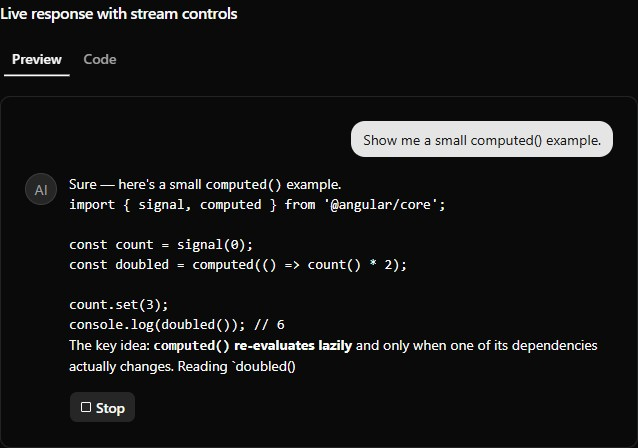
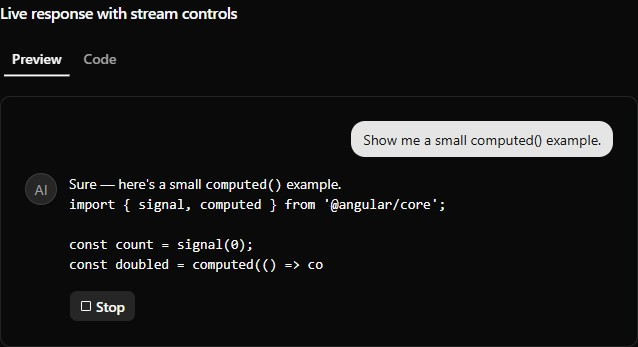
Render markdown fenced code blocks via Shiki with copy button

diff --git a/libs/prompt-kit/markdown/pk-markdown.ts b/libs/prompt-kit/markdown/pk-markdown.ts
@@ -61,21 +61,29 @@ export class PkMarkdown {
 
   private readonly md = computed<Marked>(() => {
     const m = new Marked({ breaks: true, gfm: true });
-    if (this.enableDiagrams()) {
-      m.use({
-        renderer: {
-          code(token: Tokens.Code): string | false {
-            if (token.lang === 'mermaid') {
-              const source = token.text;
-              const id = `pk-mermaid-${djb2(source)}`;
-              const escaped = escapeHtml(source);
-              return `<div class="pk-mermaid-container" data-mermaid-id="${id}" data-mermaid-source="${escaped}">${escaped}</div>`;
-            }
-            return false;
-          },
+    const enableDiagrams = this.enableDiagrams();
+    m.use({
+      renderer: {
+        code(token: Tokens.Code): string | false {
+          // Mermaid takes priority when enabled — emits its own placeholder
+          // that applyDiagrams() turns into an SVG.
+          if (enableDiagrams && token.lang === 'mermaid') {
+            const source = token.text;
+            const id = `pk-mermaid-${djb2(source)}`;
+            const escaped = escapeHtml(source);
+            return `<div class="pk-mermaid-container" data-mermaid-id="${id}" data-mermaid-source="${escaped}">${escaped}</div>`;
+          }
+          // Every other fenced block becomes a placeholder that
+          // applyCodeBlocks() upgrades to a Shiki-highlighted block with a
+          // language tag and a Copy button. The inner pre/code is the
+          // fallback shown until Shiki finishes loading (or if it fails).
+          const lang = (token.lang || 'text').trim() || 'text';
+          const langAttr = escapeHtml(lang);
+          const escaped = escapeHtml(token.text);
+          return `<div class="pk-code-container" data-code-lang="${langAttr}"><pre><code class="language-${langAttr}">${escaped}</code></pre></div>`;
         },
-      });
-    }
+      },
+    });
     return m;
   });
 
@@ -116,7 +124,6 @@ export class PkMarkdown {
       this.mermaidTheme();
 
       if (!isPlatformBrowser(this.platformId)) return;
-      if (!this.enableMath() && !this.enableDiagrams()) return;
 
       if (this.renderTimer) clearTimeout(this.renderTimer);
       this.renderTimer = setTimeout(() => this.runEnhancements(), 300);
@@ -157,11 +164,65 @@ export class PkMarkdown {
   private async runEnhancements(): Promise<void> {
     const el = this.contentEl()?.nativeElement;
     if (!el) return;
+    // Code blocks first — Shiki only loads when the rendered HTML actually
+    // contains fenced blocks, so prose-only content stays light.
+    await this.applyCodeBlocks(el);
     if (this.enableMath()) {
       await this.applyMath(el);
     }
     if (this.enableDiagrams()) {
       await this.applyDiagrams(el);
+    }
+  }
+
+  private async applyCodeBlocks(el: HTMLElement): Promise<void> {
+    const containers = el.querySelectorAll<HTMLElement>('.pk-code-container');
+    if (containers.length === 0) return;
+    try {
+      // Lazy-load: Shiki (~250KB) only enters the bundle when content has fenced blocks
+      const { codeToHtml } = await import('shiki');
+      const isDark =
+        isPlatformBrowser(this.platformId) &&
+        document.documentElement.classList.contains('dark');
+      const theme = isDark ? 'dark-plus' : 'github-light';
+
+      for (const container of Array.from(containers)) {
+        if (container.dataset['enhanced'] === 'true') continue;
+        const codeEl = container.querySelector('code');
+        const code = codeEl?.textContent ?? '';
+        const lang = container.dataset['codeLang'] || 'text';
+
+        const wrapper = buildCodeBlockShell(lang);
+        wrapper.dataset['enhanced'] = 'true';
+
+        const body = wrapper.querySelector<HTMLElement>('.pk-code-body');
+        if (body) {
+          let parsed: Document;
+          try {
+            const html = await codeToHtml(code, { lang, theme });
+            parsed = new DOMParser().parseFromString(html, 'text/html');
+          } catch {
+            // Plain fallback — build a <pre><code>{textContent}</code></pre>.
+            // No innerHTML; textContent escapes for us.
+            const pre = document.createElement('pre');
+            const codeNode = document.createElement('code');
+            codeNode.textContent = code;
+            pre.appendChild(codeNode);
+            body.appendChild(pre);
+            attachCopyHandler(wrapper, code);
+            container.replaceWith(wrapper);
+            continue;
+          }
+          // Shiki returns a single <pre> wrapper. Move it into the body.
+          const pre = parsed.body.querySelector('pre');
+          if (pre) body.appendChild(pre);
+        }
+
+        attachCopyHandler(wrapper, code);
+        container.replaceWith(wrapper);
+      }
+    } catch {
+      // Shiki missing or failed; fenced blocks stay as the escaped <pre><code> fallback
     }
   }
 
@@ -260,6 +321,56 @@ function escapeHtml(s: string): string {
     .replace(/>/g, '&gt;')
     .replace(/"/g, '&quot;')
     .replace(/'/g, '&#39;');
+}
+
+/**
+ * Build the static chrome (header bar + body container) for an enhanced
+ * fenced-code block. Built with DOM APIs only so we never pass user-supplied
+ * text through innerHTML.
+ */
+function buildCodeBlockShell(lang: string): HTMLDivElement {
+  const wrapper = document.createElement('div');
+  wrapper.className =
+    'pk-code-block border-border bg-background my-3 overflow-hidden rounded-md border';
+
+  const header = document.createElement('div');
+  header.className =
+    'border-border bg-muted/40 text-muted-foreground flex items-center justify-between border-b px-3 py-1.5 text-[11px]';
+
+  const langSpan = document.createElement('span');
+  langSpan.className = 'font-mono uppercase tracking-wider';
+  langSpan.textContent = lang;
+  header.appendChild(langSpan);
+
+  const copyBtn = document.createElement('button');
+  copyBtn.type = 'button';
+  copyBtn.className =
+    'pk-code-copy hover:text-foreground inline-flex items-center gap-1 transition-colors';
+  copyBtn.textContent = 'Copy';
+  header.appendChild(copyBtn);
+
+  const body = document.createElement('div');
+  body.className =
+    'pk-code-body w-full overflow-x-auto text-[13px] [&>pre]:!m-0 [&>pre]:!bg-transparent [&>pre]:px-4 [&>pre]:py-3';
+
+  wrapper.appendChild(header);
+  wrapper.appendChild(body);
+  return wrapper;
+}
+
+function attachCopyHandler(wrapper: HTMLElement, code: string): void {
+  const btn = wrapper.querySelector<HTMLButtonElement>('.pk-code-copy');
+  if (!btn) return;
+  btn.addEventListener('click', () => {
+    const writer = navigator.clipboard?.writeText(code);
+    if (!writer) return;
+    void writer.then(() => {
+      btn.textContent = 'Copied';
+      setTimeout(() => {
+        btn.textContent = 'Copy';
+      }, 1500);
+    });
+  });
 }
 
 function decodeHtml(s: string): string {

diff --git a/src/library/src/markdown/files/__name@dasherize__/pk-markdown.ts b/src/library/src/markdown/files/__name@dasherize__/pk-markdown.ts
@@ -61,21 +61,29 @@ export class PkMarkdown {
 
   private readonly md = computed<Marked>(() => {
     const m = new Marked({ breaks: true, gfm: true });
-    if (this.enableDiagrams()) {
-      m.use({
-        renderer: {
-          code(token: Tokens.Code): string | false {
-            if (token.lang === 'mermaid') {
-              const source = token.text;
-              const id = `pk-mermaid-${djb2(source)}`;
-              const escaped = escapeHtml(source);
-              return `<div class="pk-mermaid-container" data-mermaid-id="${id}" data-mermaid-source="${escaped}">${escaped}</div>`;
-            }
-            return false;
-          },
+    const enableDiagrams = this.enableDiagrams();
+    m.use({
+      renderer: {
+        code(token: Tokens.Code): string | false {
+          // Mermaid takes priority when enabled — emits its own placeholder
+          // that applyDiagrams() turns into an SVG.
+          if (enableDiagrams && token.lang === 'mermaid') {
+            const source = token.text;
+            const id = `pk-mermaid-${djb2(source)}`;
+            const escaped = escapeHtml(source);
+            return `<div class="pk-mermaid-container" data-mermaid-id="${id}" data-mermaid-source="${escaped}">${escaped}</div>`;
+          }
+          // Every other fenced block becomes a placeholder that
+          // applyCodeBlocks() upgrades to a Shiki-highlighted block with a
+          // language tag and a Copy button. The inner pre/code is the
+          // fallback shown until Shiki finishes loading (or if it fails).
+          const lang = (token.lang || 'text').trim() || 'text';
+          const langAttr = escapeHtml(lang);
+          const escaped = escapeHtml(token.text);
+          return `<div class="pk-code-container" data-code-lang="${langAttr}"><pre><code class="language-${langAttr}">${escaped}</code></pre></div>`;
         },
-      });
-    }
+      },
+    });
     return m;
   });
 
@@ -116,7 +124,6 @@ export class PkMarkdown {
       this.mermaidTheme();
 
       if (!isPlatformBrowser(this.platformId)) return;
-      if (!this.enableMath() && !this.enableDiagrams()) return;
 
       if (this.renderTimer) clearTimeout(this.renderTimer);
       this.renderTimer = setTimeout(() => this.runEnhancements(), 300);
@@ -157,11 +164,62 @@ export class PkMarkdown {
   private async runEnhancements(): Promise<void> {
     const el = this.contentEl()?.nativeElement;
     if (!el) return;
+    // Code blocks first — Shiki only loads when the rendered HTML actually
+    // contains fenced blocks, so prose-only content stays light.
+    await this.applyCodeBlocks(el);
     if (this.enableMath()) {
       await this.applyMath(el);
     }
     if (this.enableDiagrams()) {
       await this.applyDiagrams(el);
+    }
+  }
+
+  private async applyCodeBlocks(el: HTMLElement): Promise<void> {
+    const containers = el.querySelectorAll<HTMLElement>('.pk-code-container');
+    if (containers.length === 0) return;
+    try {
+      // Lazy-load: Shiki (~250KB) only enters the bundle when content has fenced blocks
+      const { codeToHtml } = await import('shiki');
+      const isDark =
+        isPlatformBrowser(this.platformId) &&
+        document.documentElement.classList.contains('dark');
+      const theme = isDark ? 'dark-plus' : 'github-light';
+
+      for (const container of Array.from(containers)) {
+        if (container.dataset['enhanced'] === 'true') continue;
+        const codeEl = container.querySelector('code');
+        const code = codeEl?.textContent ?? '';
+        const lang = container.dataset['codeLang'] || 'text';
+
+        const wrapper = buildCodeBlockShell(lang);
+        wrapper.dataset['enhanced'] = 'true';
+
+        const body = wrapper.querySelector<HTMLElement>('.pk-code-body');
+        if (body) {
+          let parsed: Document;
+          try {
+            const html = await codeToHtml(code, { lang, theme });
+            parsed = new DOMParser().parseFromString(html, 'text/html');
+          } catch {
+            const pre = document.createElement('pre');
+            const codeNode = document.createElement('code');
+            codeNode.textContent = code;
+            pre.appendChild(codeNode);
+            body.appendChild(pre);
+            attachCopyHandler(wrapper, code);
+            container.replaceWith(wrapper);
+            continue;
+          }
+          const pre = parsed.body.querySelector('pre');
+          if (pre) body.appendChild(pre);
+        }
+
+        attachCopyHandler(wrapper, code);
+        container.replaceWith(wrapper);
+      }
+    } catch {
+      // Shiki missing or failed; fenced blocks stay as the escaped <pre><code> fallback
     }
   }
 
@@ -260,6 +318,51 @@ function escapeHtml(s: string): string {
     .replace(/>/g, '&gt;')
     .replace(/"/g, '&quot;')
     .replace(/'/g, '&#39;');
+}
+
+function buildCodeBlockShell(lang: string): HTMLDivElement {
+  const wrapper = document.createElement('div');
+  wrapper.className =
+    'pk-code-block border-border bg-background my-3 overflow-hidden rounded-md border';
+
+  const header = document.createElement('div');
+  header.className =
+    'border-border bg-muted/40 text-muted-foreground flex items-center justify-between border-b px-3 py-1.5 text-[11px]';
+
+  const langSpan = document.createElement('span');
+  langSpan.className = 'font-mono uppercase tracking-wider';
+  langSpan.textContent = lang;
+  header.appendChild(langSpan);
+
+  const copyBtn = document.createElement('button');
+  copyBtn.type = 'button';
+  copyBtn.className =
+    'pk-code-copy hover:text-foreground inline-flex items-center gap-1 transition-colors';
+  copyBtn.textContent = 'Copy';
+  header.appendChild(copyBtn);
+
+  const body = document.createElement('div');
+  body.className =
+    'pk-code-body w-full overflow-x-auto text-[13px] [&>pre]:!m-0 [&>pre]:!bg-transparent [&>pre]:px-4 [&>pre]:py-3';
+
+  wrapper.appendChild(header);
+  wrapper.appendChild(body);
+  return wrapper;
+}
+
+function attachCopyHandler(wrapper: HTMLElement, code: string): void {
+  const btn = wrapper.querySelector<HTMLButtonElement>('.pk-code-copy');
+  if (!btn) return;
+  btn.addEventListener('click', () => {
+    const writer = navigator.clipboard?.writeText(code);
+    if (!writer) return;
+    void writer.then(() => {
+      btn.textContent = 'Copied';
+      setTimeout(() => {
+        btn.textContent = 'Copy';
+      }, 1500);
+    });
+  });
 }
 
 function decodeHtml(s: string): string {